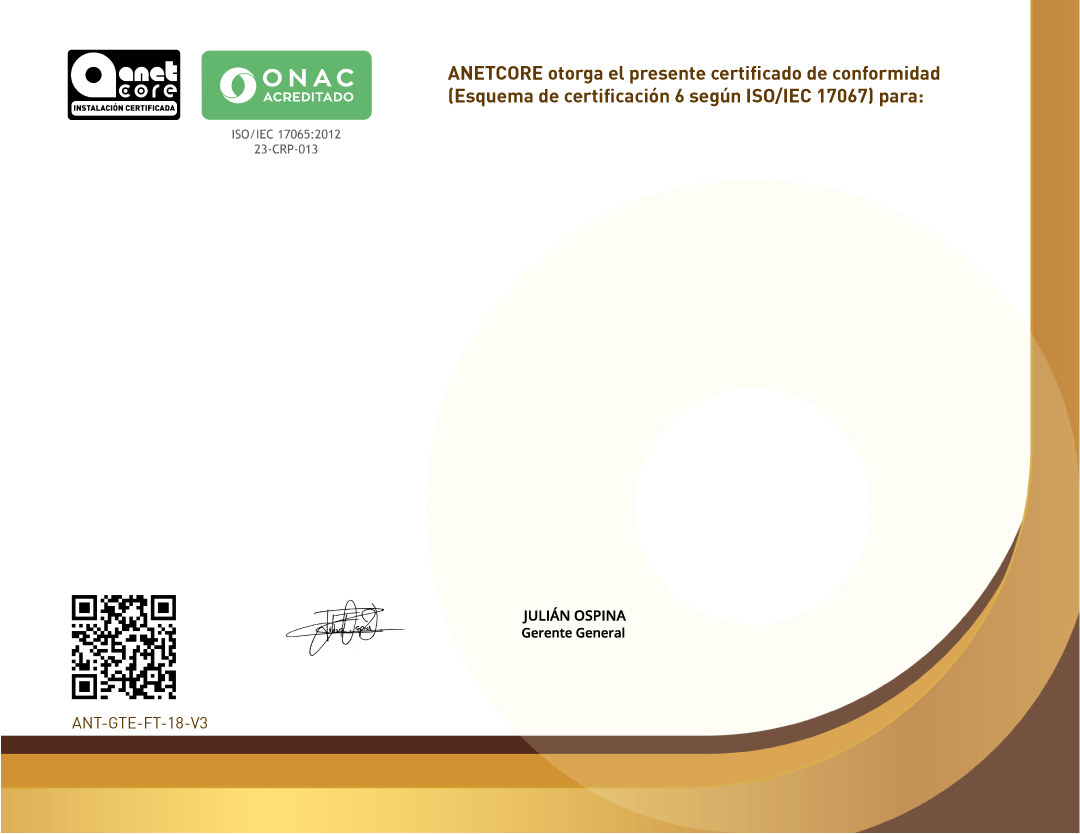
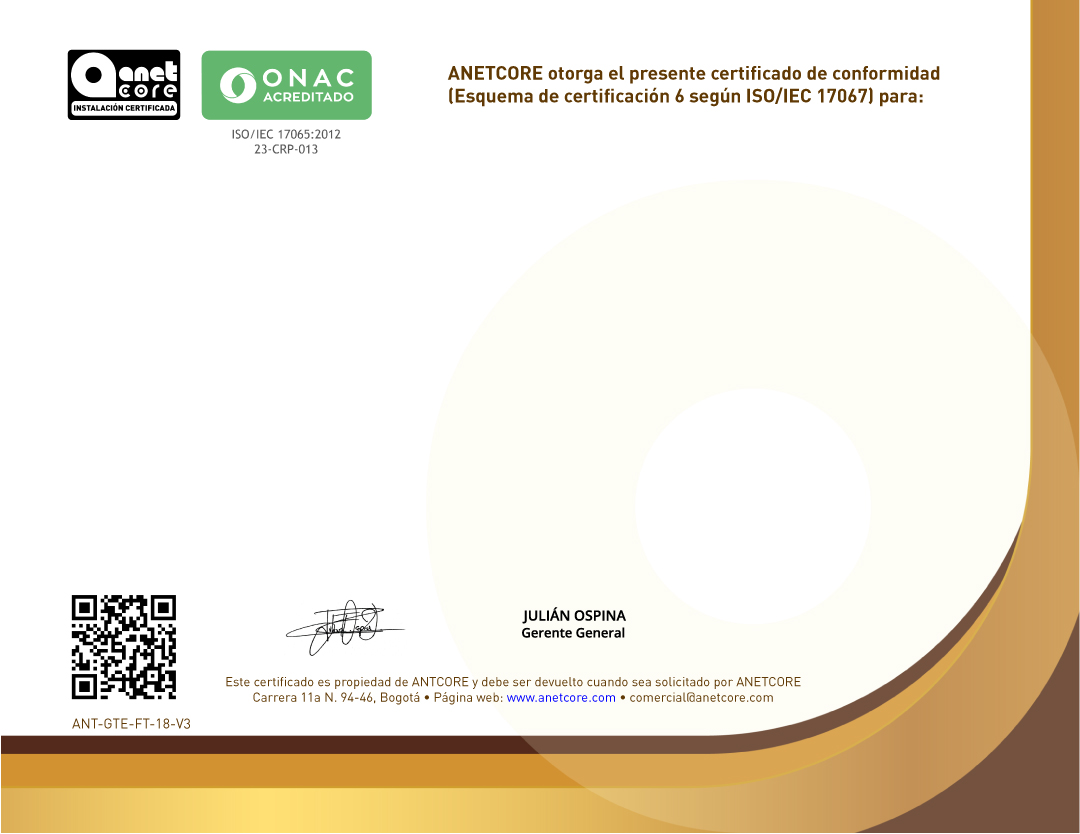
Actualizar imagen de fondo y plantilla certificado

Changed region(s): [[0.2139, 0.8106, 0.7333, 0.8417], [0.0611, 0.8417, 0.1833, 0.8729]]

diff --git a/templates/plantilla-certificado.html b/templates/plantilla-certificado.html
@@ -67,16 +67,6 @@
                     </tr>
                 </table>
                 
-                <!-- FILA 3 - Una columna centrada -->
-                <table width="100%" cellpadding="0" cellspacing="0">
-                    <tr>
-                        <td style="text-align: center; padding-top: 100px;">
-                            <div style="font-size: 9px; font-family: 'dinpro', Arial, sans-serif; color: #603904; margin-bottom: 5px;">Este certificado es propiedad de ANTCORE y debe ser devuelto cuando sea solicitado por ANETCORE<br>
-                            Carrera 11a N. 94-46, Bogotá  Página web: <a href="https://anetcore.com/"> www.anetcore.com </a> comercial@anetcore.com</div>
-                        </td>
-                    </tr>
-                </table>
-                
             </td>
         </tr>
     </table>
